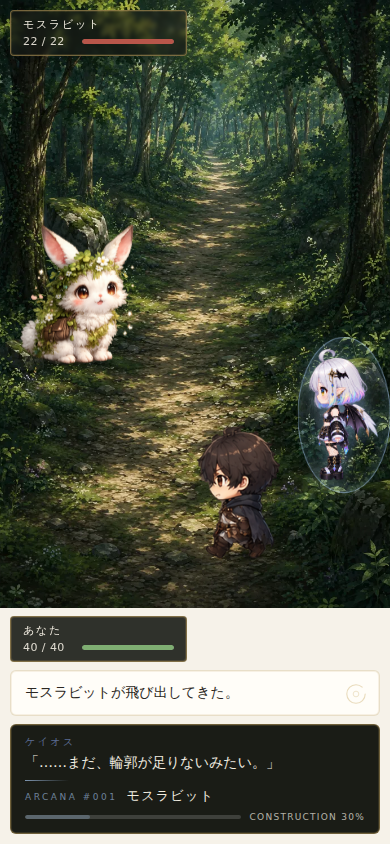
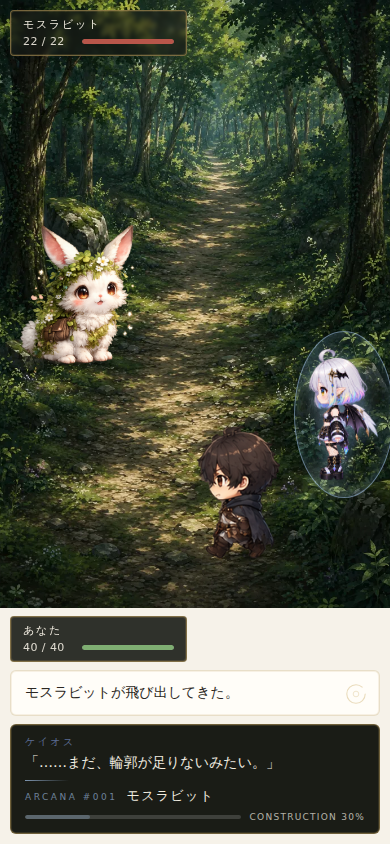
Regenerate the review package on a green suite
Same measurements, honestly taken: 436 unit, 176 e2e, build and
capture all passing, and the screenshots are now of settled screens
rather than screens caught mid-entry.

Claude-Session: https://claude.ai/code/session_01ECZrs1cydr2xwp55rvWdYK

diff --git a/review/latest/REVIEW.md b/review/latest/REVIEW.md
@@ -1,77 +1,119 @@
-# MUGEN REVIEW PACKAGE — ARCANA SYSTEM v0.1 — アルカナ図鑑・構築度基盤（採用前）
+# MUGEN REVIEW PACKAGE — ARCANA SYSTEM v0.2 — 不完全召喚 / 完全召喚（採用前）
 
-- Generated: 2026-09-04T09:41:09.413Z
-- Commit: f3d2c04 on claude/mugen-zero-v01-implementation-qanh8u
-- Compared against: e6b3dc0
+- Generated: 2026-09-04T14:38:41.735Z
+- Commit: 0655af9 on claude/mugen-zero-v01-implementation-qanh8u
+- Compared against: bc12329
 - Verdict: nothing failed
 
 ## 1. 実装前 → 実装後の変更点
 
-**まだ採用していません。** ARCANA の「収集・成長基盤」だけを実装しました。
-召喚・不完全召喚・召喚事故・UNKNOWN ARCANA・デッキ編成・戦闘中の使用には
-一切進んでいません。
+**まだ採用していません。** ARCANA図鑑と戦闘を初めて接続しました。
 
-- **ARCANA #001 モスラビットのみ。** 敵は1体も追加していません。
-- **構築度は「経験の種類」で増えます。** 同じ戦闘を100回繰り返しても、
-  1回ぶんしか増えません。条件はIDを持ち、一度きりです。
-- **100%への道は一本ではありません。** KILL / SPARE / HELP / CAPTURE は
-  **完全に同じ点数**で、どれ一つとして必須ではありません。
-  「図鑑のために一度殺してください」は、この設計が最も避けたいものです。
-- **未達成条件は攻略リストとして出しません。** 「HELPで+25%」ではなく
-  「選ばなかった道だけが答えとは限らない。」と書きます。
-  内部の条件はIDと点数で正確に保持しています。
-- **WORLD MEMORY とは別のシステムです。** 何をしたか（WORLD MEMORY）と、
-  それによって何をどれだけ知ったか（ARCANA）を混ぜていません。
-  ARCANA を100%にしても WORLD MEMORY には1件も書き込まれません。
+- **召喚事故は実装していません。** 結果は SUCCESS / FAILURE の2つだけです。
+  ACCIDENT は型の上に**名前も置いていません**（コメントで扉の位置だけ記録）。
+  古代龍・UNKNOWN・未来キャラ・別世界は1行も書いていません。
+- **0%は召喚不可。1〜99%は不完全。100%は完全。**
+- **不完全召喚はケイオスの介入枠**に入りました。1戦闘の開始時に、
+  NONE / BUFF / DEBUFF / **ARCANA** のどれか**1つだけ**が起きます。
+  BUFF と召喚が同時に出ることは、型の形として不可能にしてあります。
+- **完全召喚はプレイヤーの任意使用**で、1戦闘1回。**必ず成功します。**
+  100%は「成功率が少し高い」ではなく、**確実性そのもの**が報酬です。
+- **失敗にペナルティはありません。** ダメージも、ターン消費も、
+  アルカナの消失もありません。「輪郭が足りなかった」だけです。
 
 ### commits
 
 ```
-f3d2c04 Let the world teach you what a moss rabbit is
+0655af9 Make the tests actually hold still
+be71b0f Let Kaos put a memory back together on the battlefield
 ```
 
 ### changed files
 
 ```
-mugen-zero/e2e/arcana.spec.ts                      | 434 +++++++++++++++++++++
- mugen-zero/src/App.tsx                             |  92 ++++-
- mugen-zero/src/content/arcana/arcanaDefs.ts        | 157 ++++++++
- mugen-zero/src/content/qa/visualChanges.ts         |  16 +-
- mugen-zero/src/core/arcana/arcana.test.ts          | 313 +++++++++++++++
- mugen-zero/src/core/arcana/arcana.ts               | 282 +++++++++++++
- mugen-zero/src/core/flow/gameFlow.ts               |   4 +-
- mugen-zero/src/core/flow/types.ts                  |   2 +
- mugen-zero/src/core/world/arcanaState.test.ts      | 196 ++++++++++
- mugen-zero/src/core/world/world.ts                 | 131 +++++++
- mugen-zero/src/dev/DevAdminScreen.tsx              |  76 ++++
- mugen-zero/src/ui/battle/BattleUIPrototype.tsx     |  41 ++
- mugen-zero/src/ui/common/ArcanaToast.tsx           |  71 ++++
- mugen-zero/src/ui/screens/ArcanaScreen.tsx         | 215 ++++++++++
- mugen-zero/src/ui/screens/HomeScreen.tsx           |   7 +
- mugen-zero/src/ui/styles.css                       | 351 ++++++++++++++++-
- review/latest/01_battle_prototype.png              | Bin 513692 -> 0 bytes
- review/latest/02_battle_prototype_skill.png        | Bin 466145 -> 0 bytes
- review/latest/03_battle_prototype_mugen_choice.png | Bin 535988 -> 0 bytes
- review/latest/manifest.json                        |  66 ----
- review/latest/qa-report.md                         | 102 -----
- review/notes.md                                    | 140 +++----
- 22 files changed, 2452 insertions(+), 244 deletions(-)
+mugen-zero/e2e/arcana.spec.ts                      |   2 +-
+ mugen-zero/e2e/battlePrototype.spec.ts             |   2 +-
+ mugen-zero/e2e/coreExperience.spec.ts              |   2 +-
+ mugen-zero/e2e/devReviewHub.spec.ts                |   2 +-
+ mugen-zero/e2e/explorationLoop.spec.ts             |   2 +-
+ mugen-zero/e2e/fixtures.ts                         |  27 ++
+ mugen-zero/e2e/fourFutures.spec.ts                 |   2 +-
+ mugen-zero/e2e/helpers.ts                          |   2 +-
+ mugen-zero/e2e/mossRabbit.spec.ts                  |   2 +-
+ mugen-zero/e2e/navigation.spec.ts                  |   2 +-
+ mugen-zero/e2e/phaseA.spec.ts                      |   2 +-
+ mugen-zero/e2e/phaseB-restart.spec.ts              |   2 +-
+ mugen-zero/e2e/phaseB.spec.ts                      |   2 +-
+ mugen-zero/e2e/phaseC-restart.spec.ts              |   2 +-
+ mugen-zero/e2e/phaseC.spec.ts                      |   2 +-
+ mugen-zero/e2e/phaseD-restart.spec.ts              |   2 +-
+ mugen-zero/e2e/phaseD.spec.ts                      |   2 +-
+ mugen-zero/e2e/phaseD5-restart.spec.ts             |   2 +-
+ mugen-zero/e2e/phaseD5.spec.ts                     |   2 +-
+ mugen-zero/e2e/phaseE-restart.spec.ts              |   2 +-
+ mugen-zero/e2e/phaseE.spec.ts                      |   2 +-
+ mugen-zero/e2e/phaseF-restart.spec.ts              |   2 +-
+ mugen-zero/e2e/phaseF.spec.ts                      |   2 +-
+ mugen-zero/e2e/phaseG.spec.ts                      |   2 +-
+ mugen-zero/e2e/phaseH-restart.spec.ts              |   2 +-
+ mugen-zero/e2e/phaseH.spec.ts                      |   2 +-
+ mugen-zero/e2e/reviewCapture.ts                    | 128 ++---
+ mugen-zero/e2e/rumorSeeds.spec.ts                  |   2 +-
+ mugen-zero/e2e/summon.spec.ts                      | 518 +++++++++++++++++++++
+ mugen-zero/e2e/uiPatch.spec.ts                     |   2 +-
+ mugen-zero/e2e/uxPolish.spec.ts                    |   2 +-
+ mugen-zero/e2e/visualBackground.spec.ts            |   2 +-
+ mugen-zero/playwright.config.ts                    |   6 +
+ mugen-zero/src/App.tsx                             |  12 +-
+ mugen-zero/src/content/arcana/arcanaDefs.ts        |  22 +
+ mugen-zero/src/content/qa/visualChanges.ts         |  14 +-
+ mugen-zero/src/core/arcana/arcana.ts               |  22 +
+ mugen-zero/src/core/chaos/interventionPlan.test.ts | 160 +++++++
+ mugen-zero/src/core/chaos/interventionPlan.ts      | 112 +++++
+ mugen-zero/src/core/summon/summon.test.ts          | 139 ++++++
+ mugen-zero/src/core/summon/summon.ts               | 148 ++++++
+ mugen-zero/src/dev/DevAdminScreen.tsx              |  43 ++
+ mugen-zero/src/dev/debugEncounter.ts               |  19 +
+ mugen-zero/src/game/battle/battleLogic.test.ts     |  52 ++-
+ mugen-zero/src/game/battle/battleLogic.ts          |  23 +
+ mugen-zero/src/ui/battle/BattleUIPrototype.tsx     | 215 ++++++++-
+ mugen-zero/src/ui/battle/battleArcana.ts           |  58 +++
+ mugen-zero/src/ui/screens/ArcanaScreen.tsx         |  20 +
+ mugen-zero/src/ui/styles.css                       | 163 +++++++
+ review/latest/01_arcana_sealed.png                 | Bin 9818 -> 0 bytes
+ review/latest/01_summon_incomplete_card.png        | Bin 0 -> 496782 bytes
+ review/latest/02_arcana_detail_low.png             | Bin 82616 -> 0 bytes
+ review/latest/02_summon_incomplete_field.png       | Bin 0 -> 514552 bytes
+ review/latest/03_arcana_detail_high.png            | Bin 103774 -> 0 bytes
+ review/latest/03_summon_failure_card.png           | Bin 0 -> 495033 bytes
+ review/latest/04_arcana_complete.png               | Bin 103780 -> 0 bytes
+ review/latest/04_summon_arcana_command.png         | Bin 0 -> 481348 bytes
+ review/latest/05_arcana_toast_complete.png         | Bin 68266 -> 0 bytes
+ review/latest/05_summon_complete_field.png         | Bin 0 -> 481845 bytes
+ review/latest/06_battle_prototype.png              | Bin 0 -> 513136 bytes
+ review/latest/06_home_new_world.png                | Bin 208257 -> 0 bytes
+ review/latest/07_arcana_summon_ability.png         | Bin 0 -> 96524 bytes
+ review/latest/07_home_remembering.png              | Bin 208298 -> 0 bytes
+ review/latest/manifest.json                        |  48 +-
+ review/latest/qa-report.md                         |  10 +-
+ review/notes.md                                    | 157 ++++---
+ 66 files changed, 1962 insertions(+), 212 deletions(-)
 ```
 
 ## 2. スクリーンショット（必要な分だけ）
 
-撮影: 2026-09-04T09:41:09.226Z / viewport 390x844
+撮影: 2026-09-04T14:38:41.543Z / viewport 390x844
 
-- `review/latest/01_arcana_sealed.png` — ARCANA / アルカナ図鑑：まだ何も知らない状態。#??? のまま、何があるかは言わない
-- `review/latest/02_arcana_detail_low.png` — ARCANA / アルカナ図鑑：発見直後。1%でも読めるものがあるか、ヒントが攻略リストに見えないか
-- `review/latest/03_arcana_detail_high.png` — ARCANA / アルカナ図鑑：高構築度。段階解放された情報の量と、90%で開く「予兆」
-- `review/latest/04_arcana_complete.png` — ARCANA / アルカナ図鑑：ARCANA COMPLETE。金の縁と一行だけで、白フラッシュを使っていないこと
-- `review/latest/05_arcana_toast_complete.png` — ARCANA / アルカナ図鑑：100%到達の瞬間。世界の絵を覆わない小さなカードであること
-- `review/latest/06_home_new_world.png` — HOME：始めたばかりの世界。まだ何も覚えていない状態の第一印象
-- `review/latest/07_home_remembering.png` — HOME：記憶を持った世界。数字と最新の記憶が入ったときの見え方
+- `review/latest/01_summon_incomplete_card.png` — BATTLE UI PROTOTYPE：ケイオスが不完全召喚を試みた瞬間。どのページを・何%で呼ぼうとしているか
+- `review/latest/02_summon_incomplete_field.png` — BATTLE UI PROTOTYPE：同種戦。敵モスラビットと召喚モスラビットが見分けられるか（位置・大きさ・光の輪・タグ）
+- `review/latest/03_summon_failure_card.png` — BATTLE UI PROTOTYPE：不成立。ペナルティを与えず、短い一言で終わっているか
+- `review/latest/04_summon_arcana_command.png` — BATTLE UI PROTOTYPE：100%所持時の戦闘UI。攻撃・スキルを圧迫せず、独立した行になっているか
+- `review/latest/05_summon_complete_field.png` — BATTLE UI PROTOTYPE：完全召喚。金の輪、《森の息吹》の効果、1戦闘1回の使用済み表示
+- `review/latest/06_battle_prototype.png` — BATTLE UI PROTOTYPE：世界が主役に見えるか。敵と味方の大きさ・接地・HP・メッセージ・攻撃/スキル
+- `review/latest/07_arcana_summon_ability.png` — ARCANA / アルカナ図鑑：100%でだけ開く「呼べるもの」。ステータスやレアリティになっていないこと
 
 撮影していない画面（変更なし。テスト結果で報告）:
-- BATTLE UI PROTOTYPE — 前ラウンドから見た目の変更なし。見たものを外へ報告するコールバックが1つ増えただけです
+- HOME — 前ラウンドで承認待ちの5項目導線のまま。今回は無変更です
 - GREENWOOD / BATTLE — 前ラウンドから無変更。試作は既存画面を置き換えていません
 - TAVERN / TALK — シーンアート修正版のまま
 - TITLE — v0.1 のまま
@@ -84,23 +126,27 @@ mugen-zero/e2e/arcana.spec.ts                      | 434 +++++++++++++++++++++
 
 ## 3. 新規機能の動作確認結果
 
-- 360 / 390 / 412px で、図鑑一覧（未発見／発見済／COMPLETE）・詳細
-  （低・高・COMPLETE）・構築度上昇の通知を確認。縦横スクロールなし。
-- HOME の下段が4項目から**5項目**になりました（人生の記録／**アルカナ**／
-  旅立つ／休息する／設定）。360pxでも1列68pxあり、ラベルは縮んでいません。
-- 構築度上昇の通知は**画面上部に浮く小さなカード**です。ブロックしません。
-  タップで消え、放っておいても消えます。**白フラッシュは使っていません。**
-  世界の絵は一切覆いません（森を歩きながら見えます）。
-- 検証用に DEV ADMIN へ「ARCANA — 構築度を直接指定」を追加しました。
-  90%まで正直に遊ぶと十数戦かかるためです。**公開ビルドには出ません。**
+- 360 / 390 / 412px で確認。縦横スクロールなし、森は画面の50%以上。
+- **ARCANAコマンドは3列目にせず、独立した1行**にしました。360pxで
+  3ボタン横並びにすると文字が読めなくなり、しかもこれは
+  「集めた甲斐」を受け取るボタンだからです。攻撃・スキルは無変更。
+- **同種戦（敵モスラビット＋召喚モスラビット）を最重要ケースとして
+  検証しました。** 区別は**恒久的な色変更を一切使わず**、
+  (1) 陣営side（主人公側の手前に立つ）
+  (2) サイズ（敵より明確に小さい）
+  (3) 足元の光の輪と「ARCANA」タグ
+  の3つで行っています。E2Eが3点すべてを機械的に検査し、
+  さらに主人公・ケイオス・敵の**いずれとも重ならない**ことを確認します。
+- 演出は約1.8秒のカード（コマンド欄の位置）＋召喚1.5秒。
+  **白フェード・全面暗転・巨大モーダルは使っていません。**
 
 同じビルドが出力した QA REPORT 全文: `review/latest/qa-report.md`
 
 ```
 # MUGEN ZERO QA REPORT
 
-- Generated: 2026-09-04T09:41:08.804Z
-- Build: MUGEN ZERO v0.1 / f3d2c04 / 2026-09-04T09:40:47.530Z
+- Generated: 2026-09-04T14:38:41.459Z
+- Build: MUGEN ZERO v0.1 / 0655af9 / 2026-09-04T14:38:23.938Z
 - Environment: dev server
 - Result: no failed checks — 21 pass, 0 warn, 2 not tested, 1 manual
 
@@ -125,34 +171,39 @@ mugen-zero/e2e/arcana.spec.ts                      | 434 +++++++++++++++++++++
 
 ## 4. 既存機能への影響
 
-新規：`src/core/arcana/arcana.ts`（純粋なルール）、
-`src/content/arcana/arcanaDefs.ts`（#001の定義・点数・文章）、
-`src/ui/screens/ArcanaScreen.tsx`（図鑑）、`src/ui/common/ArcanaToast.tsx`、
-それぞれのテスト、E2E `arcana.spec.ts`。
-変更：`world.ts`（保存・リセット・3メソッド）、`App.tsx`（接続）、
-`HomeScreen.tsx`（入口1つ）、`flow/types.ts` `gameFlow.ts`（画面1つ）、
-`BattleUIPrototype.tsx`（見たものを報告する任意のコールバック1つ）、
-`styles.css`（追記のみ）、`DevAdminScreen.tsx`（検証用）。
+新規：`src/core/summon/summon.ts`（召喚ルール）、
+`src/core/chaos/interventionPlan.ts`（BUFF/DEBUFF と ARCANA の排他）、
+`src/ui/battle/battleArcana.ts`（図鑑→戦場の受け渡し）、
+それぞれの単体テスト、E2E `summon.spec.ts`。
+変更：`battleLogic.ts`（`healPlayer` を追加）、
+`BattleUIPrototype.tsx`（召喚演出・コマンド）、`arcana.ts` / `arcanaDefs.ts`
+（`summon` を1つ）、`ArcanaScreen.tsx`（100%時の1節）、`styles.css`（追記のみ）、
+`App.tsx`・`debugEncounter.ts`・`DevAdminScreen.tsx`（配線と検証用）。
+
+テスト基盤：`e2e/fixtures.ts` を新規追加し、全 spec の `test` の輸入元を
+そこへ変更（1ファイル1行）。ゲーム側のコードではありません。
 
 **ガルド・会話画面・イベントUI・探索画面・スプライト・時間進行・
-既存戦闘画面・戦闘ロジック・ケイオス介入は1文字も変えていません。**
+既存戦闘画面・MUGEN CHOICE・WORLD MEMORY は1文字も変えていません。**
+既存の `rollChaosIntervention` も**1行も変えていません**（新しい層が
+その上で選ぶだけ）。4種のBUFF/DEBUFFの挙動は完全に同じです。
 
 ## 5. Unit / E2E / Build 結果
 
 | 項目 | 結果 | 内容 |
 | --- | --- | --- |
 | Typecheck (tsc -b --force) | PASS | no type errors |
-| Unit (vitest) | PASS | Tests  401 passed (401) |
-| E2E (playwright) | PASS | 156 passed (13.8m) |
-| Build (tsc -b && vite build) | PASS | ✓ built in 6.58s |
+| Unit (vitest) | PASS | Tests  436 passed (436) |
+| E2E (playwright) | PASS | 176 passed (10.2m) |
+| Build (tsc -b && vite build) | PASS | ✓ built in 7.60s |
 | Screenshot capture | PASS | captured |
 
 ```
-dist/assets/DevLockScreen-CUgQLcxp.js                    1.33 kB │ gzip:   0.77 kB
-dist/assets/DevAdminScreen-nrz_v77o.js                  45.09 kB │ gzip:  15.14 kB
+dist/assets/DevLockScreen-ZB3uuqQu.js                    1.33 kB │ gzip:   0.77 kB
+dist/assets/DevAdminScreen-61aOD1XF.js                  46.16 kB │ gzip:  15.47 kB
 dist/assets/react-C8w-UNLI.js                          141.74 kB │ gzip:  45.48 kB
-dist/assets/index-engPyxCb.js                          155.40 kB │ gzip:  47.26 kB
-dist/assets/GreenwoodScreen-bYIXAf3T.js              1,498.86 kB │ gzip: 346.19 kB
+dist/assets/index-DRQXtHbE.js                          161.47 kB │ gzip:  49.18 kB
+dist/assets/GreenwoodScreen-wKt9yW5u.js              1,498.86 kB │ gzip: 346.19 kB
 ```
 
 ## 6. Android / mobile 確認結果
@@ -163,55 +214,60 @@ dist/assets/GreenwoodScreen-bYIXAf3T.js              1,498.86 kB │ gzip: 346.1
 
 ## 7. DB 変更有無
 
-**DB のスキーマ変更なし。** 既存の key/value ストアに
-`arcana_records` が1行増えるだけです。ストアもインデックスも
-バージョンも増やしていません。
+**DB 変更なし。** 召喚は何も保存しません。
 
 ## 8. Save compatibility
 
-**セーブ互換に影響なし。** ARCANA 以前のセーブにはこの行が無く、
-「まだ何も知らない」として読まれます（新規世界と同じ答え）。
-逆に、このビルドが知らない条件IDが入っていても**消さずに保持**し、
-数えないだけにしてあります（新しいビルドの記録を古いビルドが
-黙って壊さないため）。
+**セーブ互換に影響なし。**
 
 ## 9. 既知の問題
 
-1. 【新規】**旧戦闘画面では「通常攻撃を見た／固有技を見た」が記録されません。**
-   旧UIは「触らない」対象なので、報告用のコールバックを足していません。
-   旧UIでも「遭遇した」「勝った／負けた」「4択の答え」は記録されます。
-   既定は新戦闘画面なので、通常プレイでは影響しません。
-2. 【新規】**REUNION / SPECIAL_MEMORY は未実装**です。定義だけ置いて
-   `planned` を立て、**数えず・ヒントにも出さず**にしています。
-   ARCANA のためだけに再会イベントを捏造実装するのは順序が逆だからです。
-3. 【新規】**点数は仮です。** 全部 `arcanaDefs.ts` の1ファイルにあります。
-4. 【新規】**召喚はまだ何もできません。** 90%で開く「予兆」が
-   「呼べば応えるかもしれない」と書くところまでです。
+1. 【新規】**戦闘開始時の不完全召喚は、HP全快のことがほとんどです。**
+   《森の息吹》は回復なので、開幕に出ると「HPはもう満ちている。」に
+   なりがちです。嘘をつかない表示にはしましたが、**設計として弱い**と
+   考えています。次フェーズの案：召喚を数ターン滞在させて負傷時に効かせる、
+   または不完全召喚だけ別能力にする。今回は指示範囲外なので触っていません。
+2. 【新規】**旧戦闘画面には召喚がありません。** 旧UIは触らない対象です。
+   既定は新戦闘画面なので通常プレイに影響しません。
+3. 【新規】**成功率は線形の仮式**です。`SUMMON_CONFIG` の2つの数字だけで
+   決まります。将来の曲線は `summonSuccessChance` 1関数の差し替えで済みます。
+4. 【解消】前回まで負荷時のみ落ちていた
+   「ケイオスのカードが412pxに収まる」は、**フレークではなく原因のある
+   失敗**でした。`playwright.config.ts` の `reducedMotion: 'reduce'` が
+   この環境では**ページに届いておらず**（ページ内の `matchMedia` が
+   false）、画面入場の6px スライドが走ったままカードを測っていました。
+   実測 845.62px は「844 + 画面 6px + カード 8px」の途中の値です。
+   `e2e/fixtures.ts` を追加してページ側で再度 `emulateMedia` を要求し、
+   全 spec がそこから `test` を取るようにしました。**テストの閾値は
+   1つも緩めていません。**（副次効果：E2E全体が 14.4分 → 9.8分）
 5. 【継続・別issue】`phaseD` の負荷依存フレーク、盗賊ガルドの右脚欠け。
-   指示どおり今回は手を付けていません。
 
 ## 10. Claude 自身が気になる箇所
 
-- **構築度をセーブしないことにしたのが、いちばん効きました。** 保存するのは
-  「達成した条件」だけで、パーセントは毎回そこから計算します。おかげで
-  セーブとルールが食い違う状態が存在せず、点数の再調整に
-  マイグレーションが要らず、誰の記録も書き換わりません。
-- **「100%への道を複数用意する」は、点数を余らせることで実現しました。**
-  到達可能な合計は195点で、上限は100点です。この余りがそのまま
-  「どの人生を通っても完成する」になります。テストは
-  **どの条件を1つ抜いても100に届くか**を全条件について確認しています。
-  一本道が生えたら落ちます。
-- **COMPLETE の画面で「まだ知らないこと」が出ていました。** どの道でも
-  未達成の条件は残るからです。「この記憶は、もう失われない」の下に
-  足りないものを並べるのは嘘なので、100%では何も出さないよう直しました。
-  E2Eが先に見つけました。
-- **ヒントを条件と1対1にしなかったのが正解でした。** 4つの答えは
-  同じ1行を共有しているので、図鑑が「殺す・見逃す・助ける・連れて行く」の
-  チェックリストに見えません。テストがヒント文に数字・%・4択の語が
-  入らないことを機械的に検査しています。
+- **排他を「順番」ではなく「型の形」で担保したのが効きました。**
+  `InterventionPlan` は NONE / MODIFIER / SUMMON の直和で、
+  SUMMON には `def` が無く MODIFIER には `arcanaId` が無いので、
+  「両方同時」は**書こうとしても書けません**。テストは20×5通りの
+  サイコロを回して、常にどれか1つだけであることを確認しています。
+- **既存の抽選を1行も触らずに拡張できたのが、いちばん安心できる点です。**
+  `rollChaosIntervention` はそのまま、新しい層がその結果を受けて
+  「これを召喚に差し替えるか」だけを決めます。前ラウンドのテストは
+  1つも書き換えていません。
+- **100%を「確実」にしたのが、この機能の主題です。** 90%成功にすると
+  「100%にしたのに失敗した」が起きて、収集の意味が壊れます。
+  完全召喚はサイコロを**引きません**（テストで、どんな目でも成功する
+  ことを確認）。
+- **「たまに落ちる」を、まずフレークと呼ばなかったのが良かったです。**
+  ジオメトリを実測して初めて、reduced-motion がそもそも効いていない
+  という**全スイートに効く不具合**だと分かりました。閾値を緩めていたら
+  見つからないままでした。
+- **同種戦の区別に色を使わなかったのが正解でした。** 召喚側を紫にする
+  などは一瞬で解決しますが、それは「無加工のPNGをそのまま使う」という
+  この作品の約束を破ります。位置・大きさ・光の輪・タグの4つで、
+  絵に指一本触れずに区別できました。
 
 ## 11. 次フェーズへ進行可能か
 
 **READY FOR HUMAN REVIEW（採用前）。**
 
-完全召喚・不完全召喚・召喚事故・UNKNOWN ARCANA・デッキ編成へは進みません。
+召喚事故・UNKNOWN ARCANA・デッキ構築・レアリティへは進みません。

diff --git a/review/latest/qa-report.md b/review/latest/qa-report.md
@@ -1,7 +1,7 @@
 # MUGEN ZERO QA REPORT
 
-- Generated: 2026-09-04T11:42:49.836Z
-- Build: MUGEN ZERO v0.1 / bc12329 / 2026-09-04T11:42:22.069Z
+- Generated: 2026-09-04T14:38:41.459Z
+- Build: MUGEN ZERO v0.1 / 0655af9 / 2026-09-04T14:38:23.938Z
 - Environment: dev server
 - Result: no failed checks — 21 pass, 0 warn, 2 not tested, 1 manual
 
